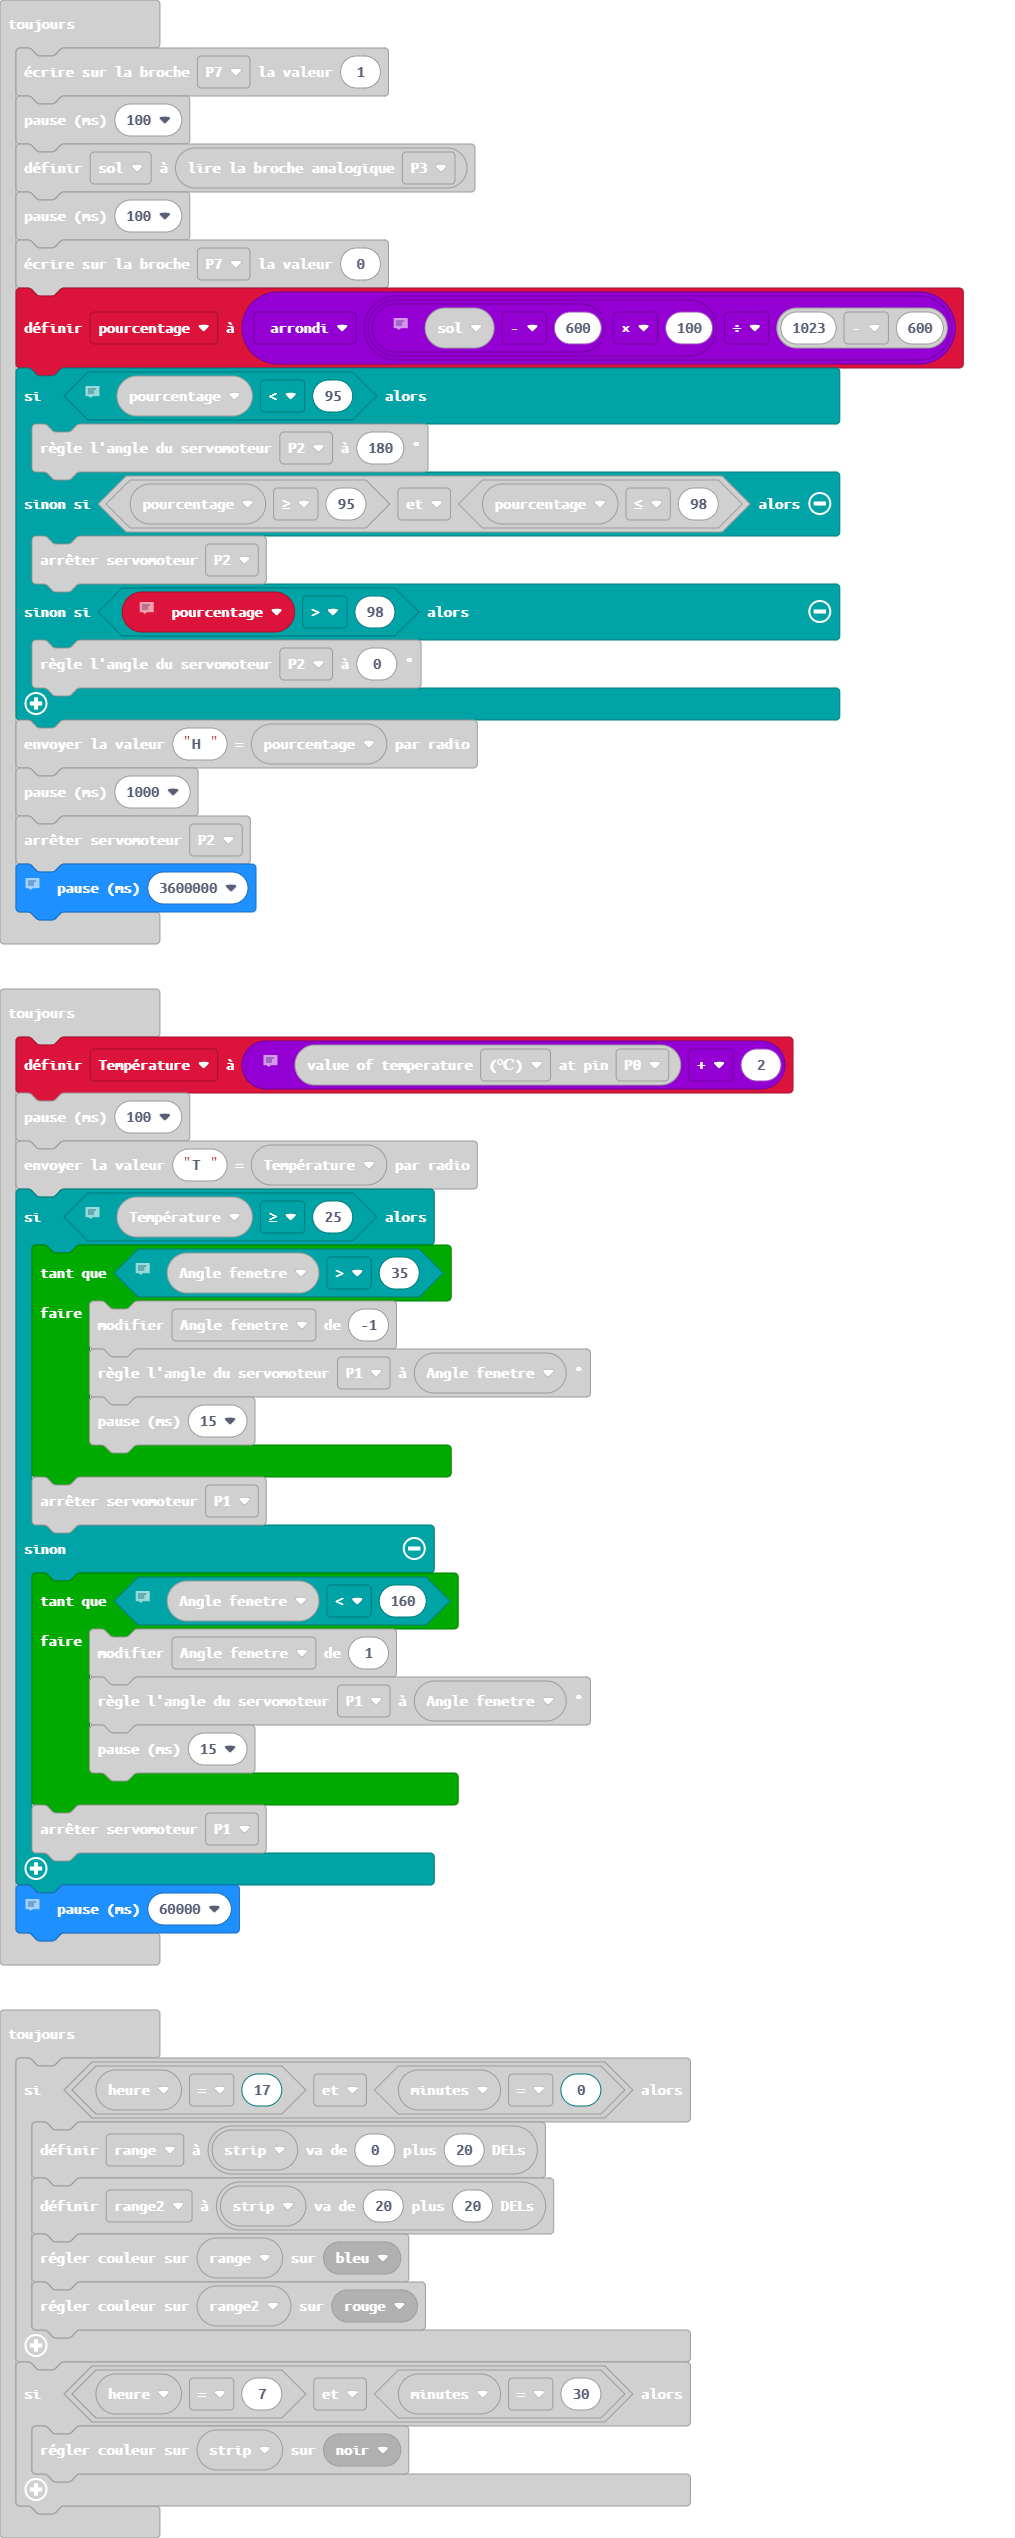
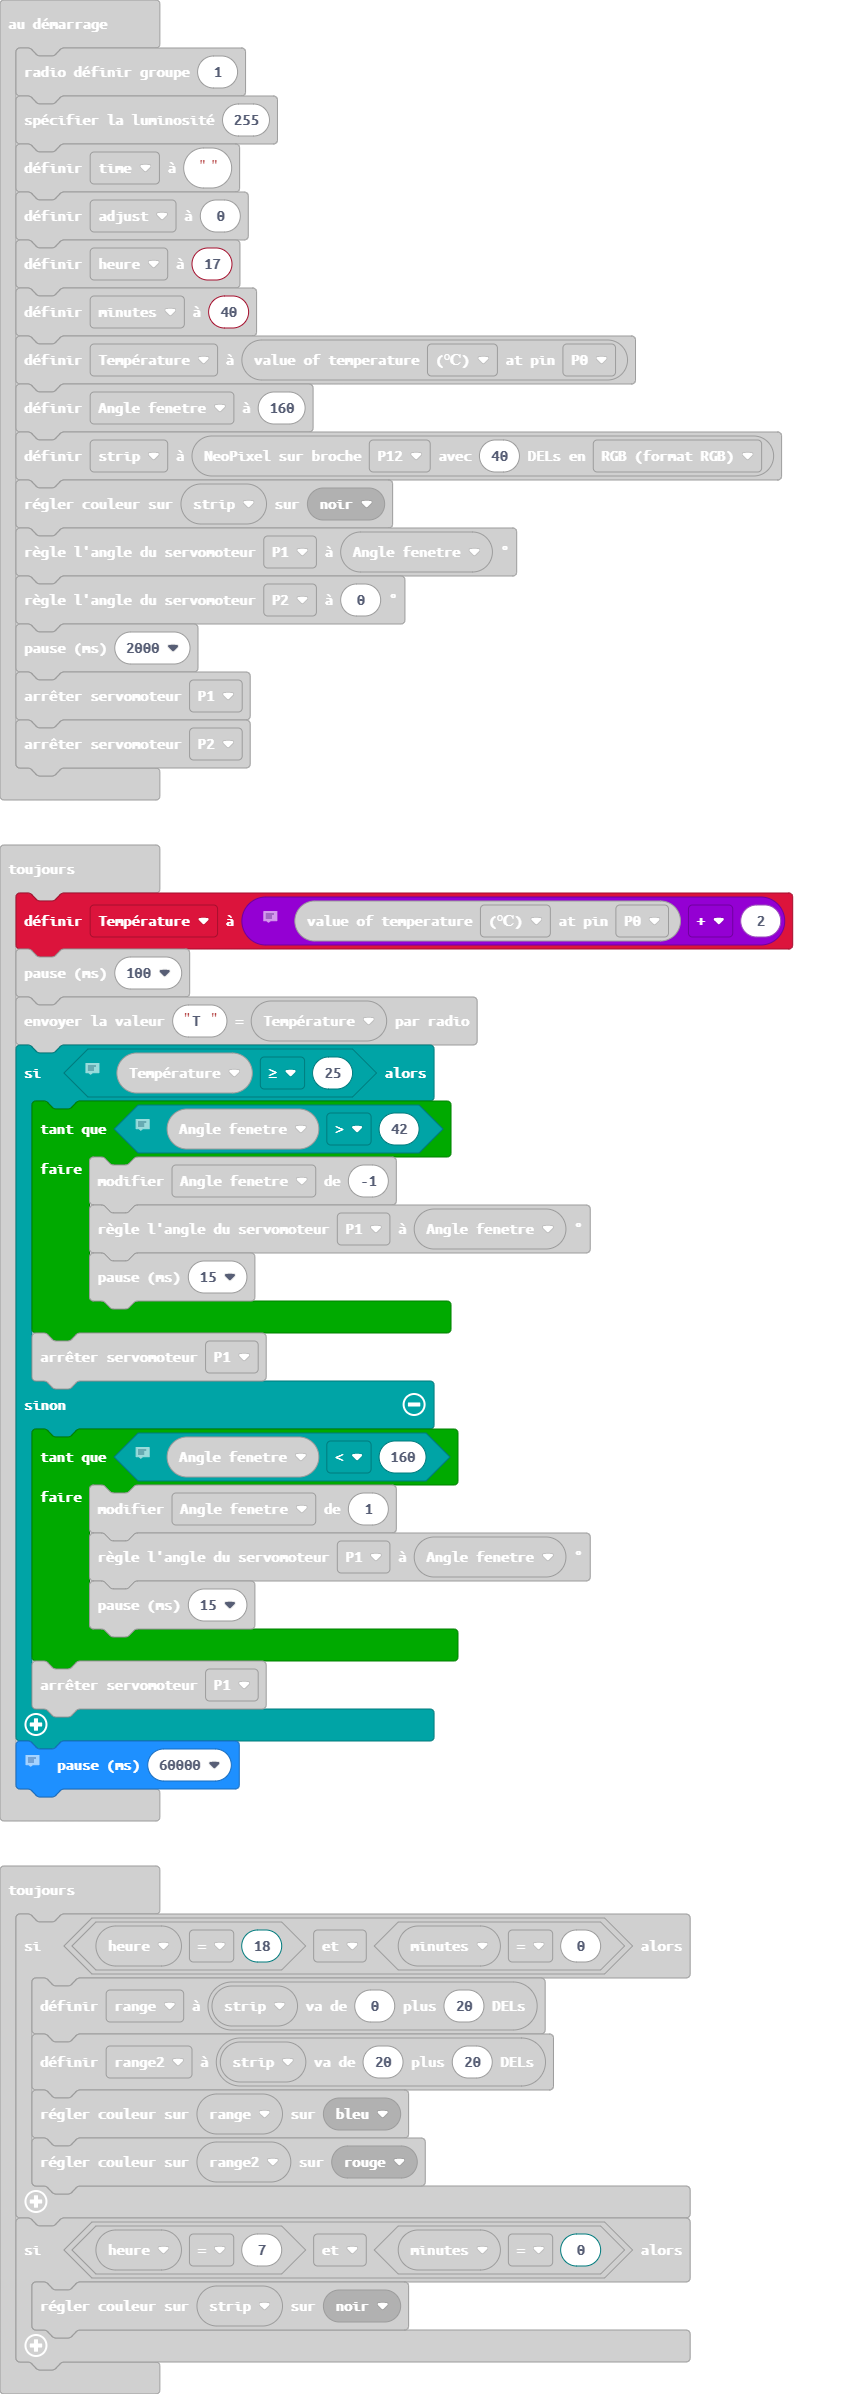
Mise à jour main.blocks, main.ts

diff --git a/main.ts b/main.ts
@@ -32,8 +32,8 @@ radio.setGroup(1)
 led.setBrightness(255)
 time = ""
 adjust = 0
-heure = 7
-minutes = 15
+heure = 17
+minutes = 40
 Température = smarthome.ReadTemperature(TMP36Type.TMP36_temperature_C, AnalogPin.P0)
 let Angle_fenetre = 160
 let strip = neopixel.create(DigitalPin.P12, 40, NeoPixelMode.RGB)
@@ -74,7 +74,7 @@ basic.forever(function () {
     // Ajuster cette valeur en fonction de vos paramètres expérimentaux
     if (Température >= 25) {
         // Auster cette valeur de l'angle d'ouverture pour que la fenêtre reste ouverte sans courant.
-        while (Angle_fenetre > 35) {
+        while (Angle_fenetre > 42) {
             Angle_fenetre += -1
             servos.P1.setAngle(Angle_fenetre)
             basic.pause(15)
@@ -106,13 +106,13 @@ basic.forever(function () {
     }
 })
 basic.forever(function () {
-    if (heure == 17 && minutes == 0) {
+    if (heure == 18 && minutes == 0) {
         range = strip.range(0, 20)
         range2 = strip.range(20, 20)
         range.showColor(neopixel.colors(NeoPixelColors.Blue))
         range2.showColor(neopixel.colors(NeoPixelColors.Red))
     }
-    if (heure == 7 && minutes == 30) {
+    if (heure == 7 && minutes == 0) {
         strip.showColor(neopixel.colors(NeoPixelColors.Black))
     }
 })
